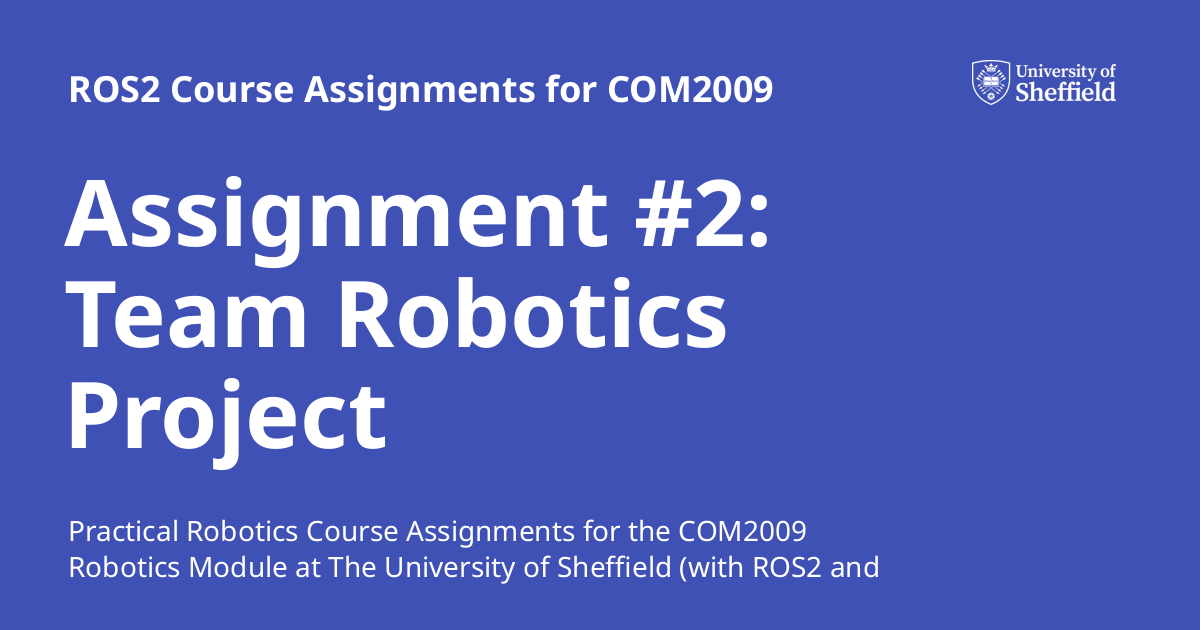
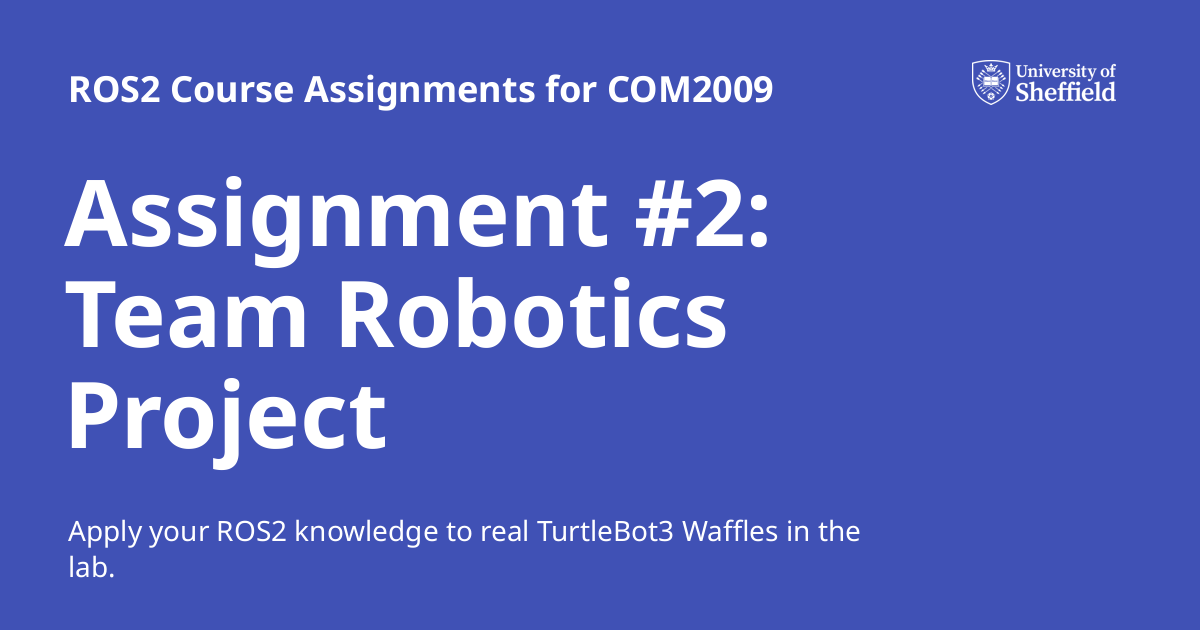
Deployed b861fca with MkDocs version: 1.6.1

Changed region(s): [[0.0617, 0.8143, 0.74, 0.9349]]

diff --git a/course/assignment2/index.html b/course/assignment2/index.html
@@ -6,7 +6,7 @@
       <meta charset="utf-8">
       <meta name="viewport" content="width=device-width,initial-scale=1">
       
-        <meta name="description" content="Practical Robotics Course Assignments for the COM2009 Robotics Module at The University of Sheffield (with ROS2 and the TurtleBot3 Waffle).">
+        <meta name="description" content="Apply your ROS2 knowledge to real TurtleBot3 Waffles in the lab.">
       
       
       
@@ -65,7 +65,7 @@
       
         <meta  property="og:title"  content="Assignment #2: Team Robotics Project - ROS2 Course Assignments for COM2009" >
       
-        <meta  property="og:description"  content="Practical Robotics Course Assignments for the COM2009 Robotics Module at The University of Sheffield (with ROS2 and the TurtleBot3 Waffle)." >
+        <meta  property="og:description"  content="Apply your ROS2 knowledge to real TurtleBot3 Waffles in the lab." >
       
         <meta  property="og:image"  content="https://tom-howard.github.io/com2009/assets/images/social/course/assignment2/README.png" >
       
@@ -81,7 +81,7 @@
       
         <meta  name="twitter:title"  content="Assignment #2: Team Robotics Project - ROS2 Course Assignments for COM2009" >
       
-        <meta  name="twitter:description"  content="Practical Robotics Course Assignments for the COM2009 Robotics Module at The University of Sheffield (with ROS2 and the TurtleBot3 Waffle)." >
+        <meta  name="twitter:description"  content="Apply your ROS2 knowledge to real TurtleBot3 Waffles in the lab." >
       
         <meta  name="twitter:image"  content="https://tom-howard.github.io/com2009/assets/images/social/course/assignment2/README.png" >
       
@@ -1972,7 +1972,7 @@ Your package must contain a <code>README.md</code> file in the root of the packa
     <span class="md-icon" title="Last update">
       <svg xmlns="http://www.w3.org/2000/svg" viewBox="0 0 24 24"><path d="M21 13.1c-.1 0-.3.1-.4.2l-1 1 2.1 2.1 1-1c.2-.2.2-.6 0-.8l-1.3-1.3c-.1-.1-.2-.2-.4-.2m-1.9 1.8-6.1 6V23h2.1l6.1-6.1zM12.5 7v5.2l4 2.4-1 1L11 13V7zM11 21.9c-5.1-.5-9-4.8-9-9.9C2 6.5 6.5 2 12 2c5.3 0 9.6 4.1 10 9.3-.3-.1-.6-.2-1-.2s-.7.1-1 .2C19.6 7.2 16.2 4 12 4c-4.4 0-8 3.6-8 8 0 4.1 3.1 7.5 7.1 7.9l-.1.2z"/></svg>
     </span>
-    <span class="git-revision-date-localized-plugin git-revision-date-localized-plugin-timeago"><span class="timeago" datetime="2025-01-27T16:41:33+00:00" locale="en"></span></span><span class="git-revision-date-localized-plugin git-revision-date-localized-plugin-iso_date">2025-01-27</span>
+    <span class="git-revision-date-localized-plugin git-revision-date-localized-plugin-timeago"><span class="timeago" datetime="2025-02-04T10:16:20+00:00" locale="en"></span></span><span class="git-revision-date-localized-plugin git-revision-date-localized-plugin-iso_date">2025-02-04</span>
   </span>
 
     
